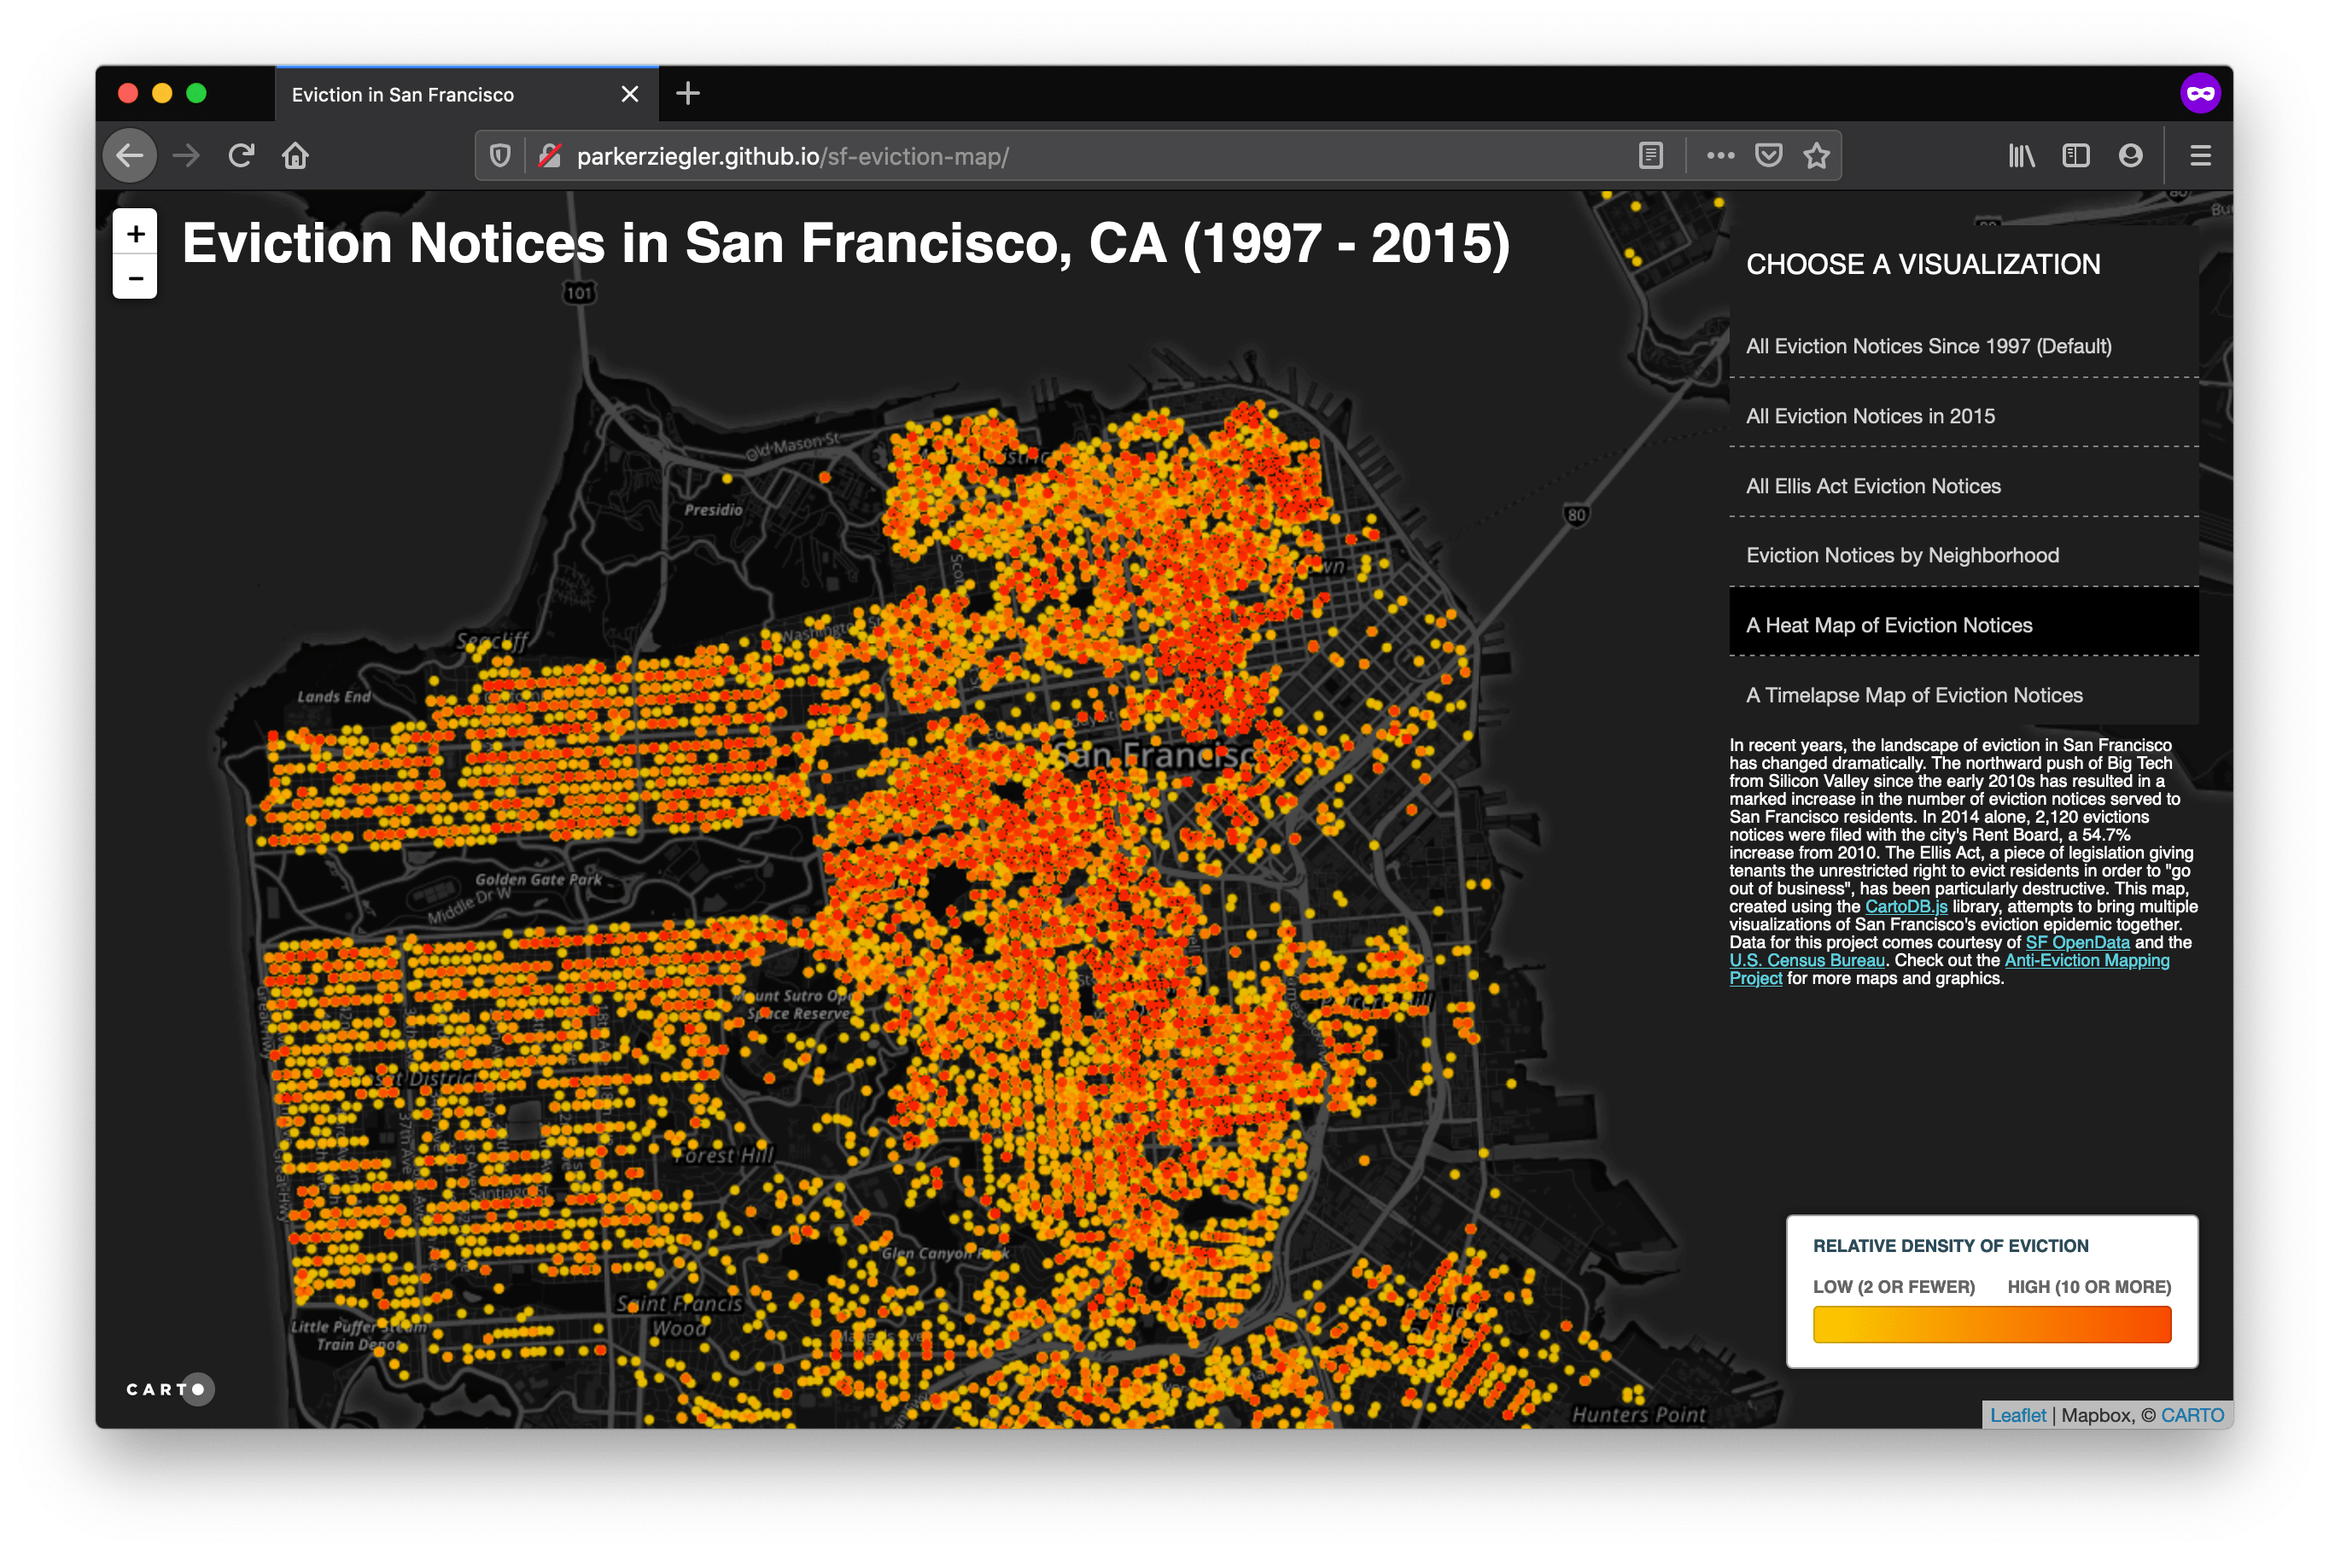
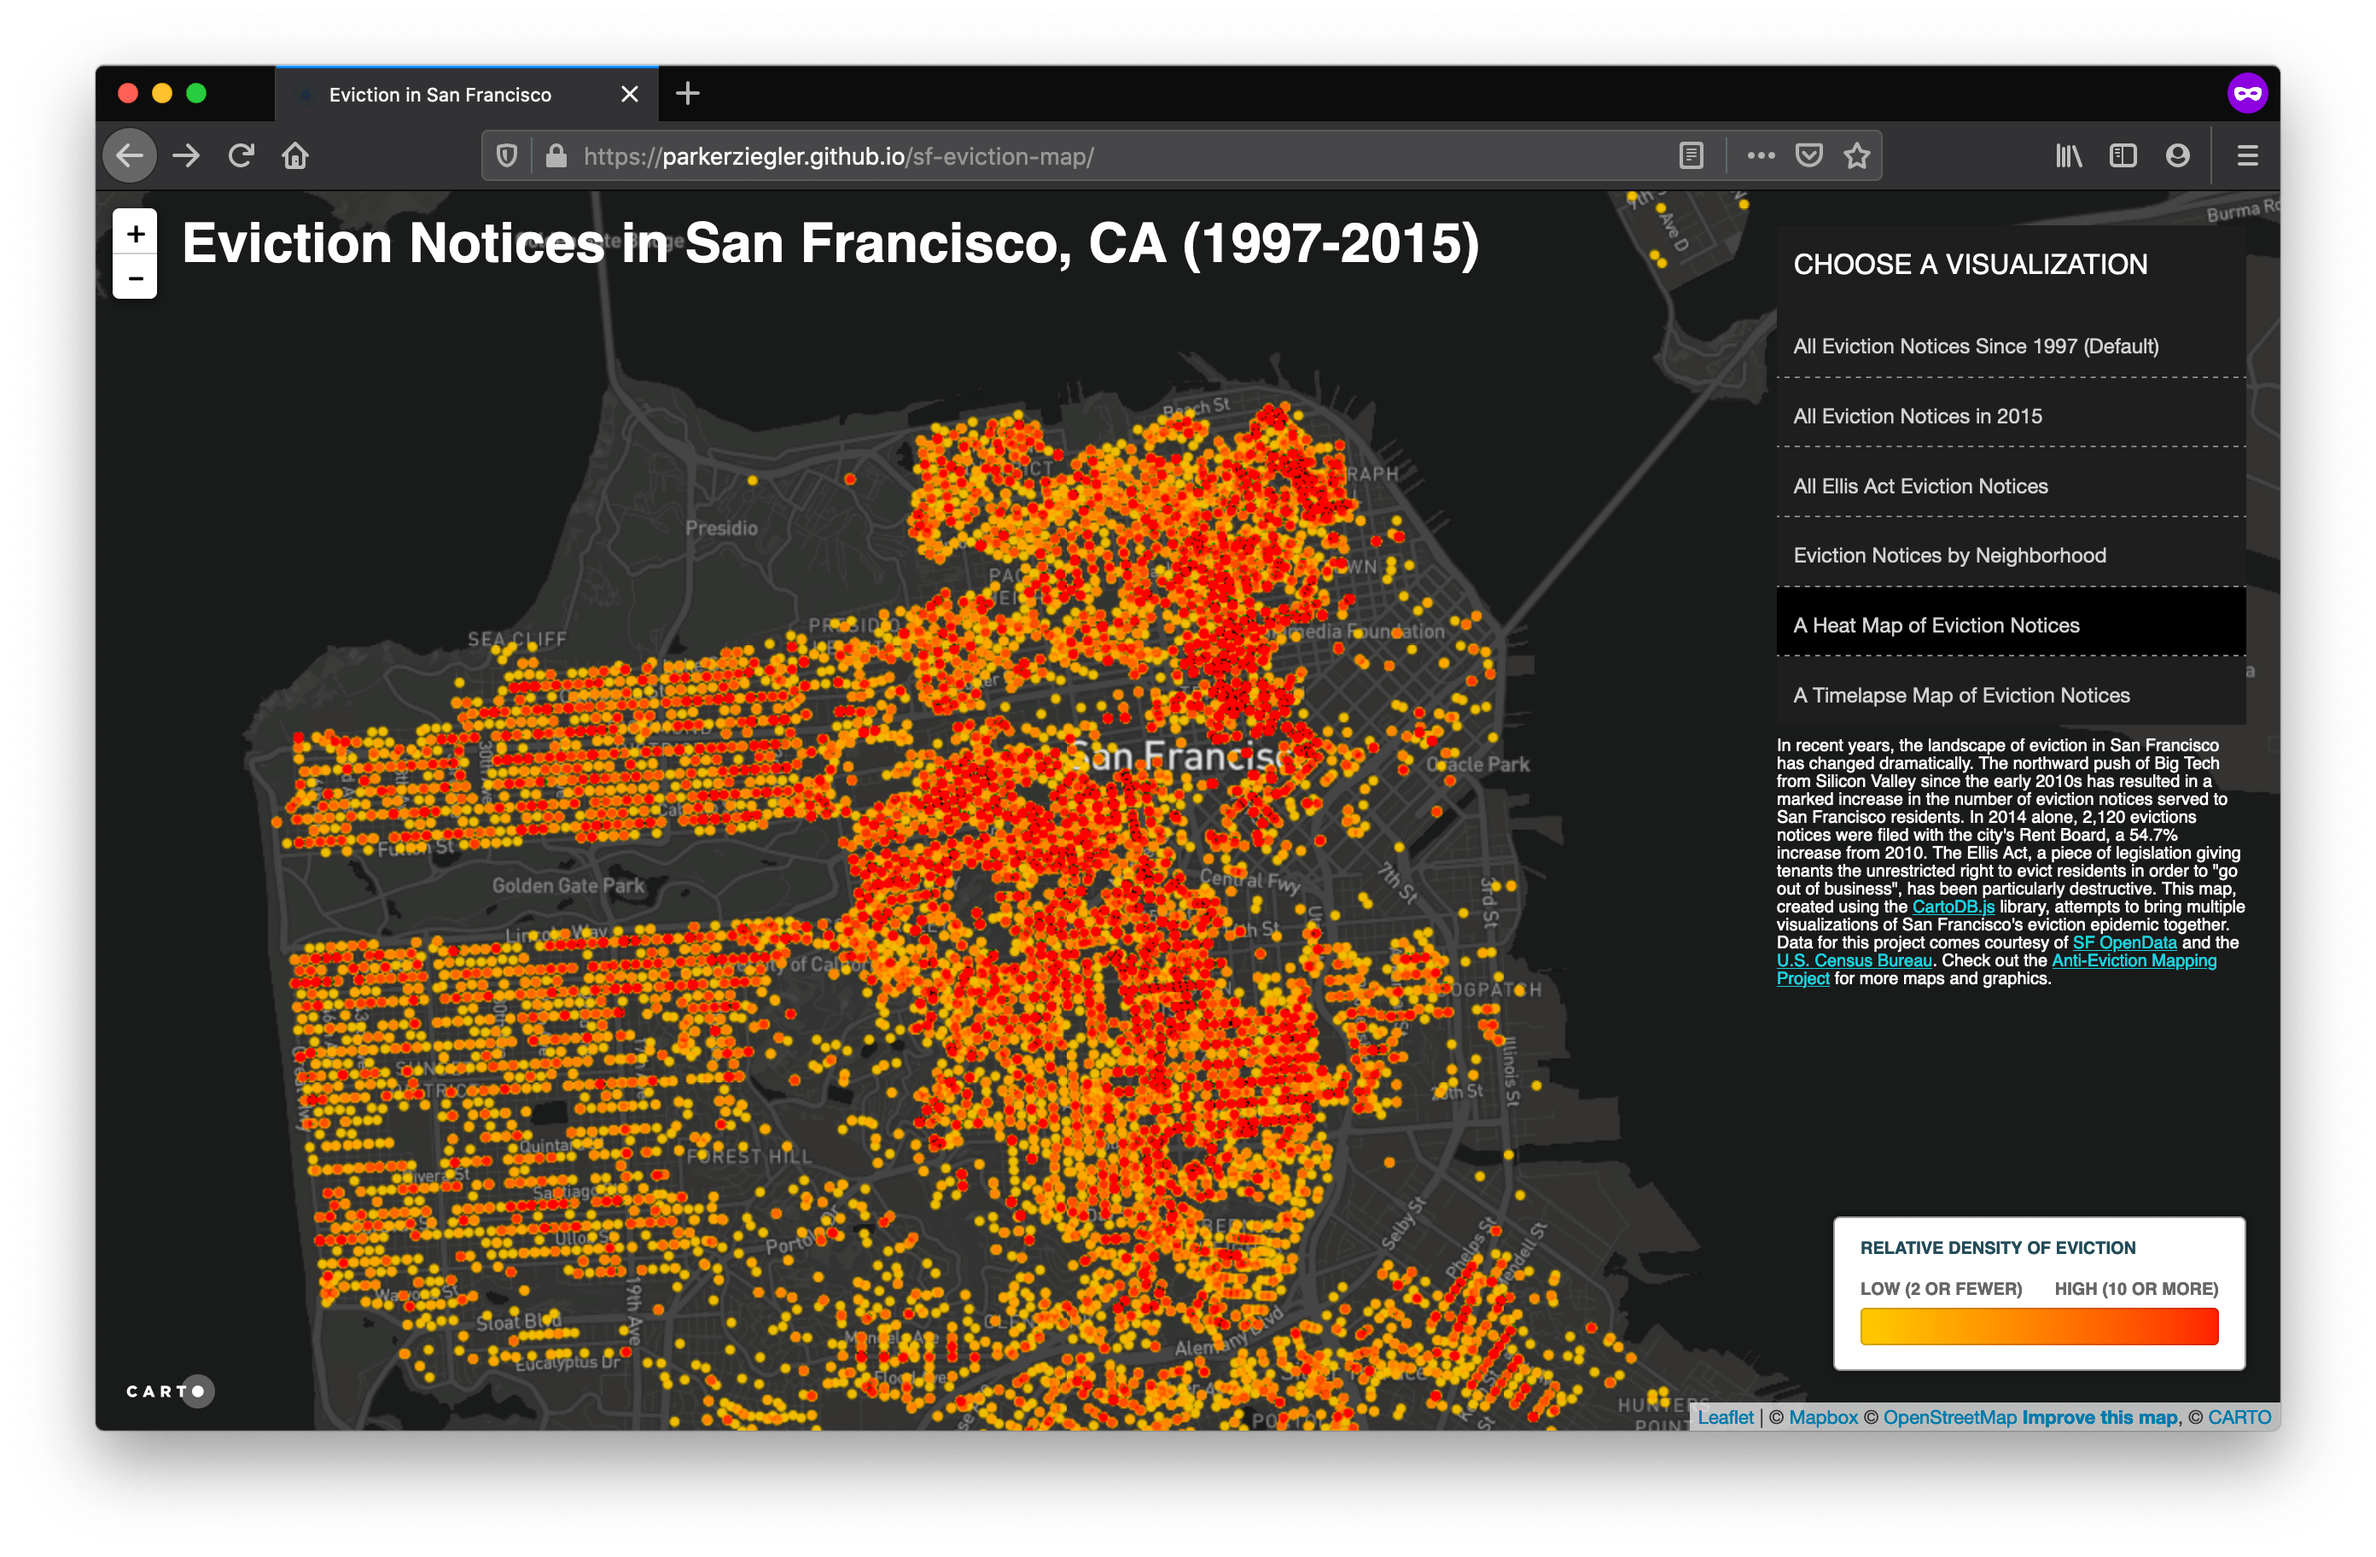
fix: update sf-eviction-map map tiles

diff --git a/src/components/Map/maps.js b/src/components/Map/maps.js
@@ -7,7 +7,7 @@ export const maps = [
       'The Road to Vision Zero: Traffic Crashes and Poverty in New York City',
     src: '/maps/ta-vision-zero/ta-vision-zero.png',
     alt: 'Transporation Alternatives x Azavea Vision Zero Map',
-    width: 2786,
+    width: 2784,
     height: 1824,
     link: 'https://parkerziegler.github.io/transalt-visionzero-app/',
     code:
@@ -449,8 +449,8 @@ export const maps = [
     src: '/maps/sf-eviction-map/sf-eviction-map.png',
     alt:
       'An interactive map depicting evictions in San Francisco from 1997 to 2015.',
-    width: 2720,
-    height: 1820,
+    width: 2784,
+    height: 1824,
     link: 'http://parkerziegler.github.io/sf-eviction-map/',
     code: 'https://github.com/parkerziegler/sf-eviction-map/',
     shadow: false,
